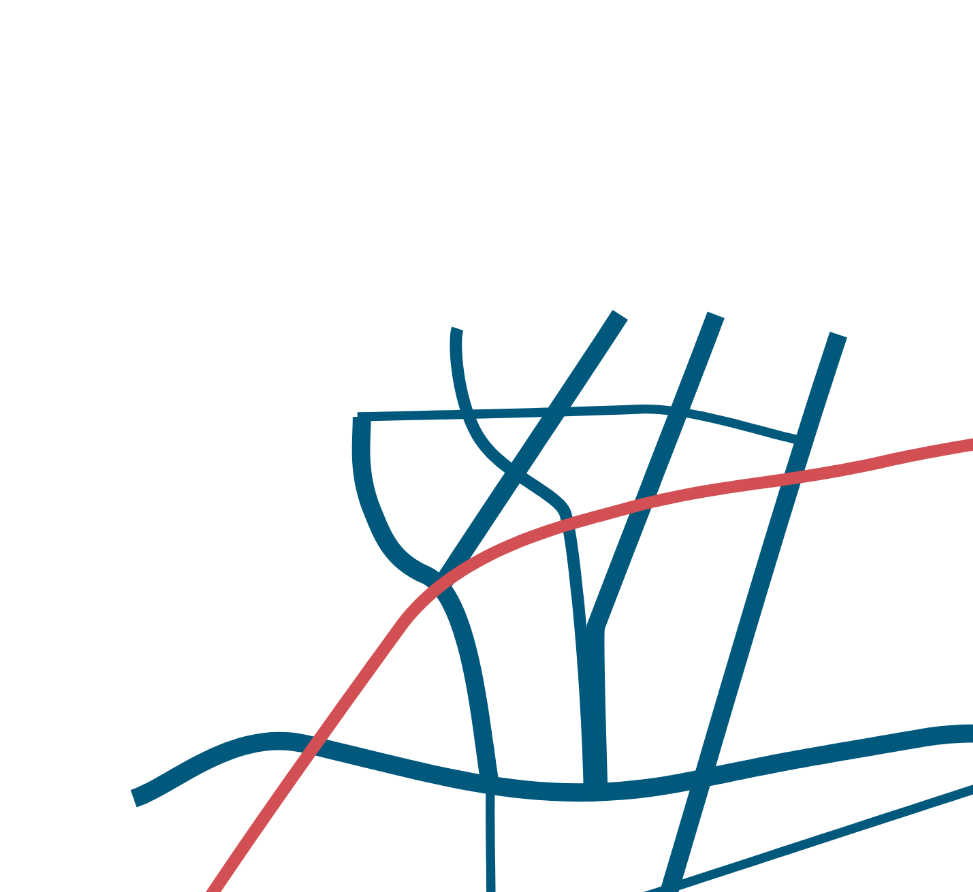
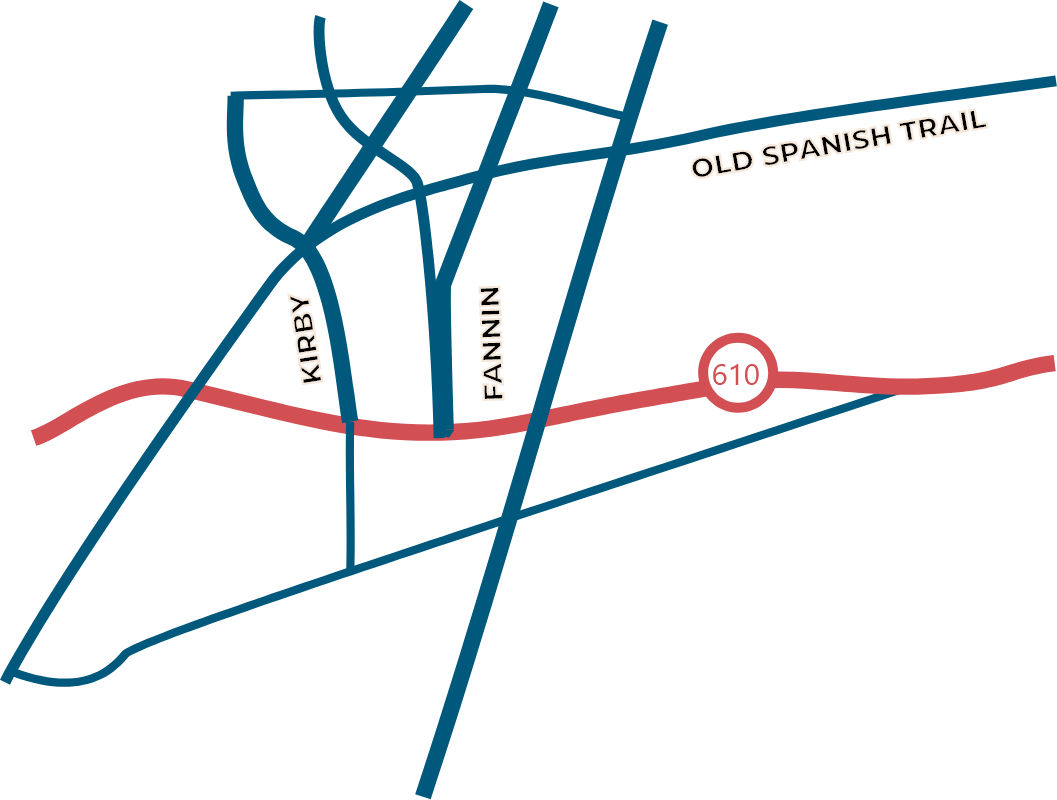
added the right maps

diff --git a/src/Pages/Home/Home.js b/src/Pages/Home/Home.js
@@ -11,7 +11,7 @@ import mag from './res/mag.png';
 import astro from './res/astro.png';
 
 import toform from './res/toform.png';
-import aboutchicks from './res/aboutchicks.png';
+import aboutpeople from './res/aboutpeople.png';
 import explorechicks from './res/explorechicks.png';
 import button1 from './res/button1.png';
 import button2 from './res/button2.png';
@@ -21,7 +21,7 @@ import dots1 from './res/dots1.png';
 import dots2 from './res/dots2.png';
 import dots3 from './res/dots3.png';
 import dots4 from './res/dots4.png';
-import overlaymp4 from './res/overlayvid.mp4';
+//import overlaymp4 from './res/overlayvid.mp4';
 
 import axios from '../../config/axios';
 import VARIABLES from '../../config/.env';
@@ -37,7 +37,7 @@ const urlify = (str) => {
 
 function Home() {
   //temp
-  // const overlaymp4 = "https://www.w3schools.com/html/mov_bbb.mp4";
+  const overlaymp4 = "https://www.w3schools.com/html/mov_bbb.mp4";
 
   const jack = "ALL WORK AND NO PLAY MAKES JACK A DULL BOY. ";
   const [homeAbout_p1, setHomeAbout_p1] = useState(jack+jack);
@@ -247,7 +247,7 @@ function Home() {
           </div>
 
           <div className="homeAbout_chicks">
-            <img src={aboutchicks}/>
+            <img src={aboutpeople}/>
             <div className="homeAbout_imgCred">
               <p>PHOTO BY JANE DOE</p>
             </div>

diff --git a/src/Pages/AboutProject/About.js b/src/Pages/AboutProject/About.js
@@ -8,6 +8,7 @@ import meet from './res/meatteem.png';
 
 import axios from '../../config/axios';
 import VARIABLES from "../../config/.env.js";
+import { ArrowCounterclockwise } from 'react-bootstrap-icons';
 
 const getWhere = (data, key, value) => {
   return data.filter(e => e[key] === value);
@@ -69,7 +70,13 @@ function About() {
     async function fetchData(){
       const req = await axios.get('/content-about-pdfs');
 
+      console.log("Pizza!");
+      console.log(VARIABLES.axiosBaseURL.slice(0, VARIABLES.axiosBaseURL.length-1));
+
       const get = (section) => {
+        const url = 
+        console.log("Hi");
+        console.log(VARIABLES.axiosBaseURL.slice(0, VARIABLES.axiosBaseURL.length-1) + getWhere(req.data, 'Section', section)[0]["pdf"][0]["url"]);
         return VARIABLES.axiosBaseURL.slice(0, VARIABLES.axiosBaseURL.length-1) + getWhere(req.data, 'Section', section)[0]["pdf"][0]["url"];
       };
 

diff --git a/src/Pages/AboutProject/About.css b/src/Pages/AboutProject/About.css
@@ -112,6 +112,7 @@ TIMELINE
   font-family: var(--fontBabasNeue);
   color: #75B2E0;
   opacity: 34.5%;
+  
   position: absolute;
 }
 
